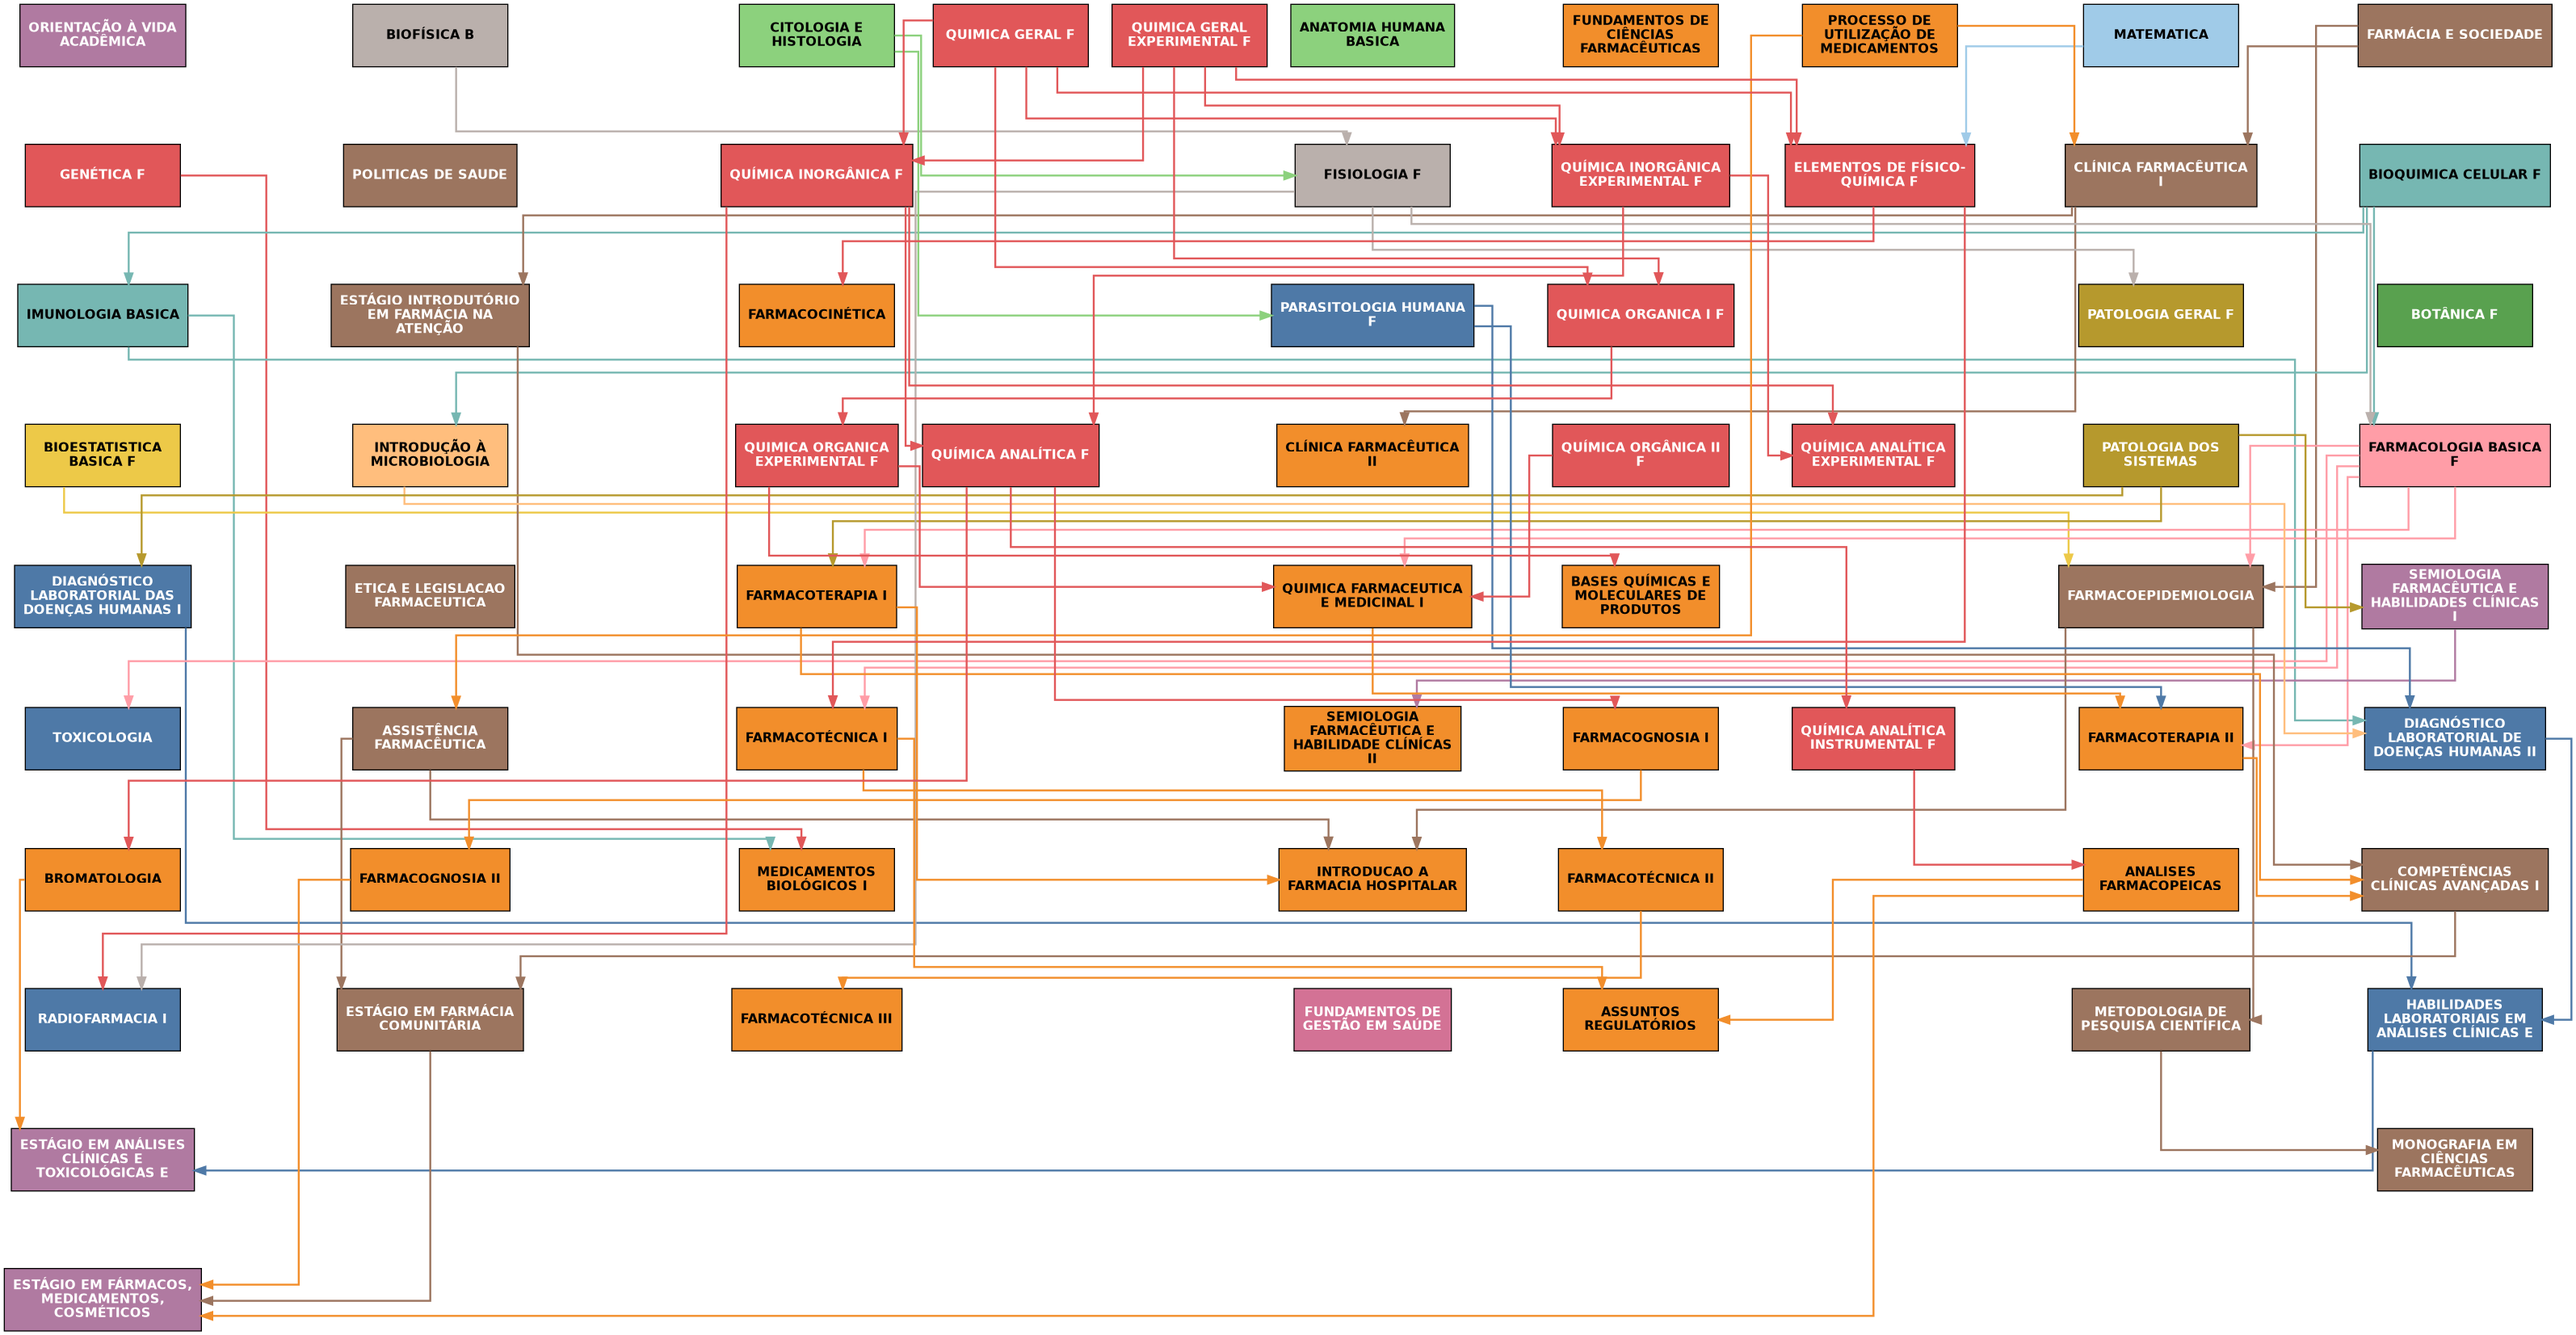
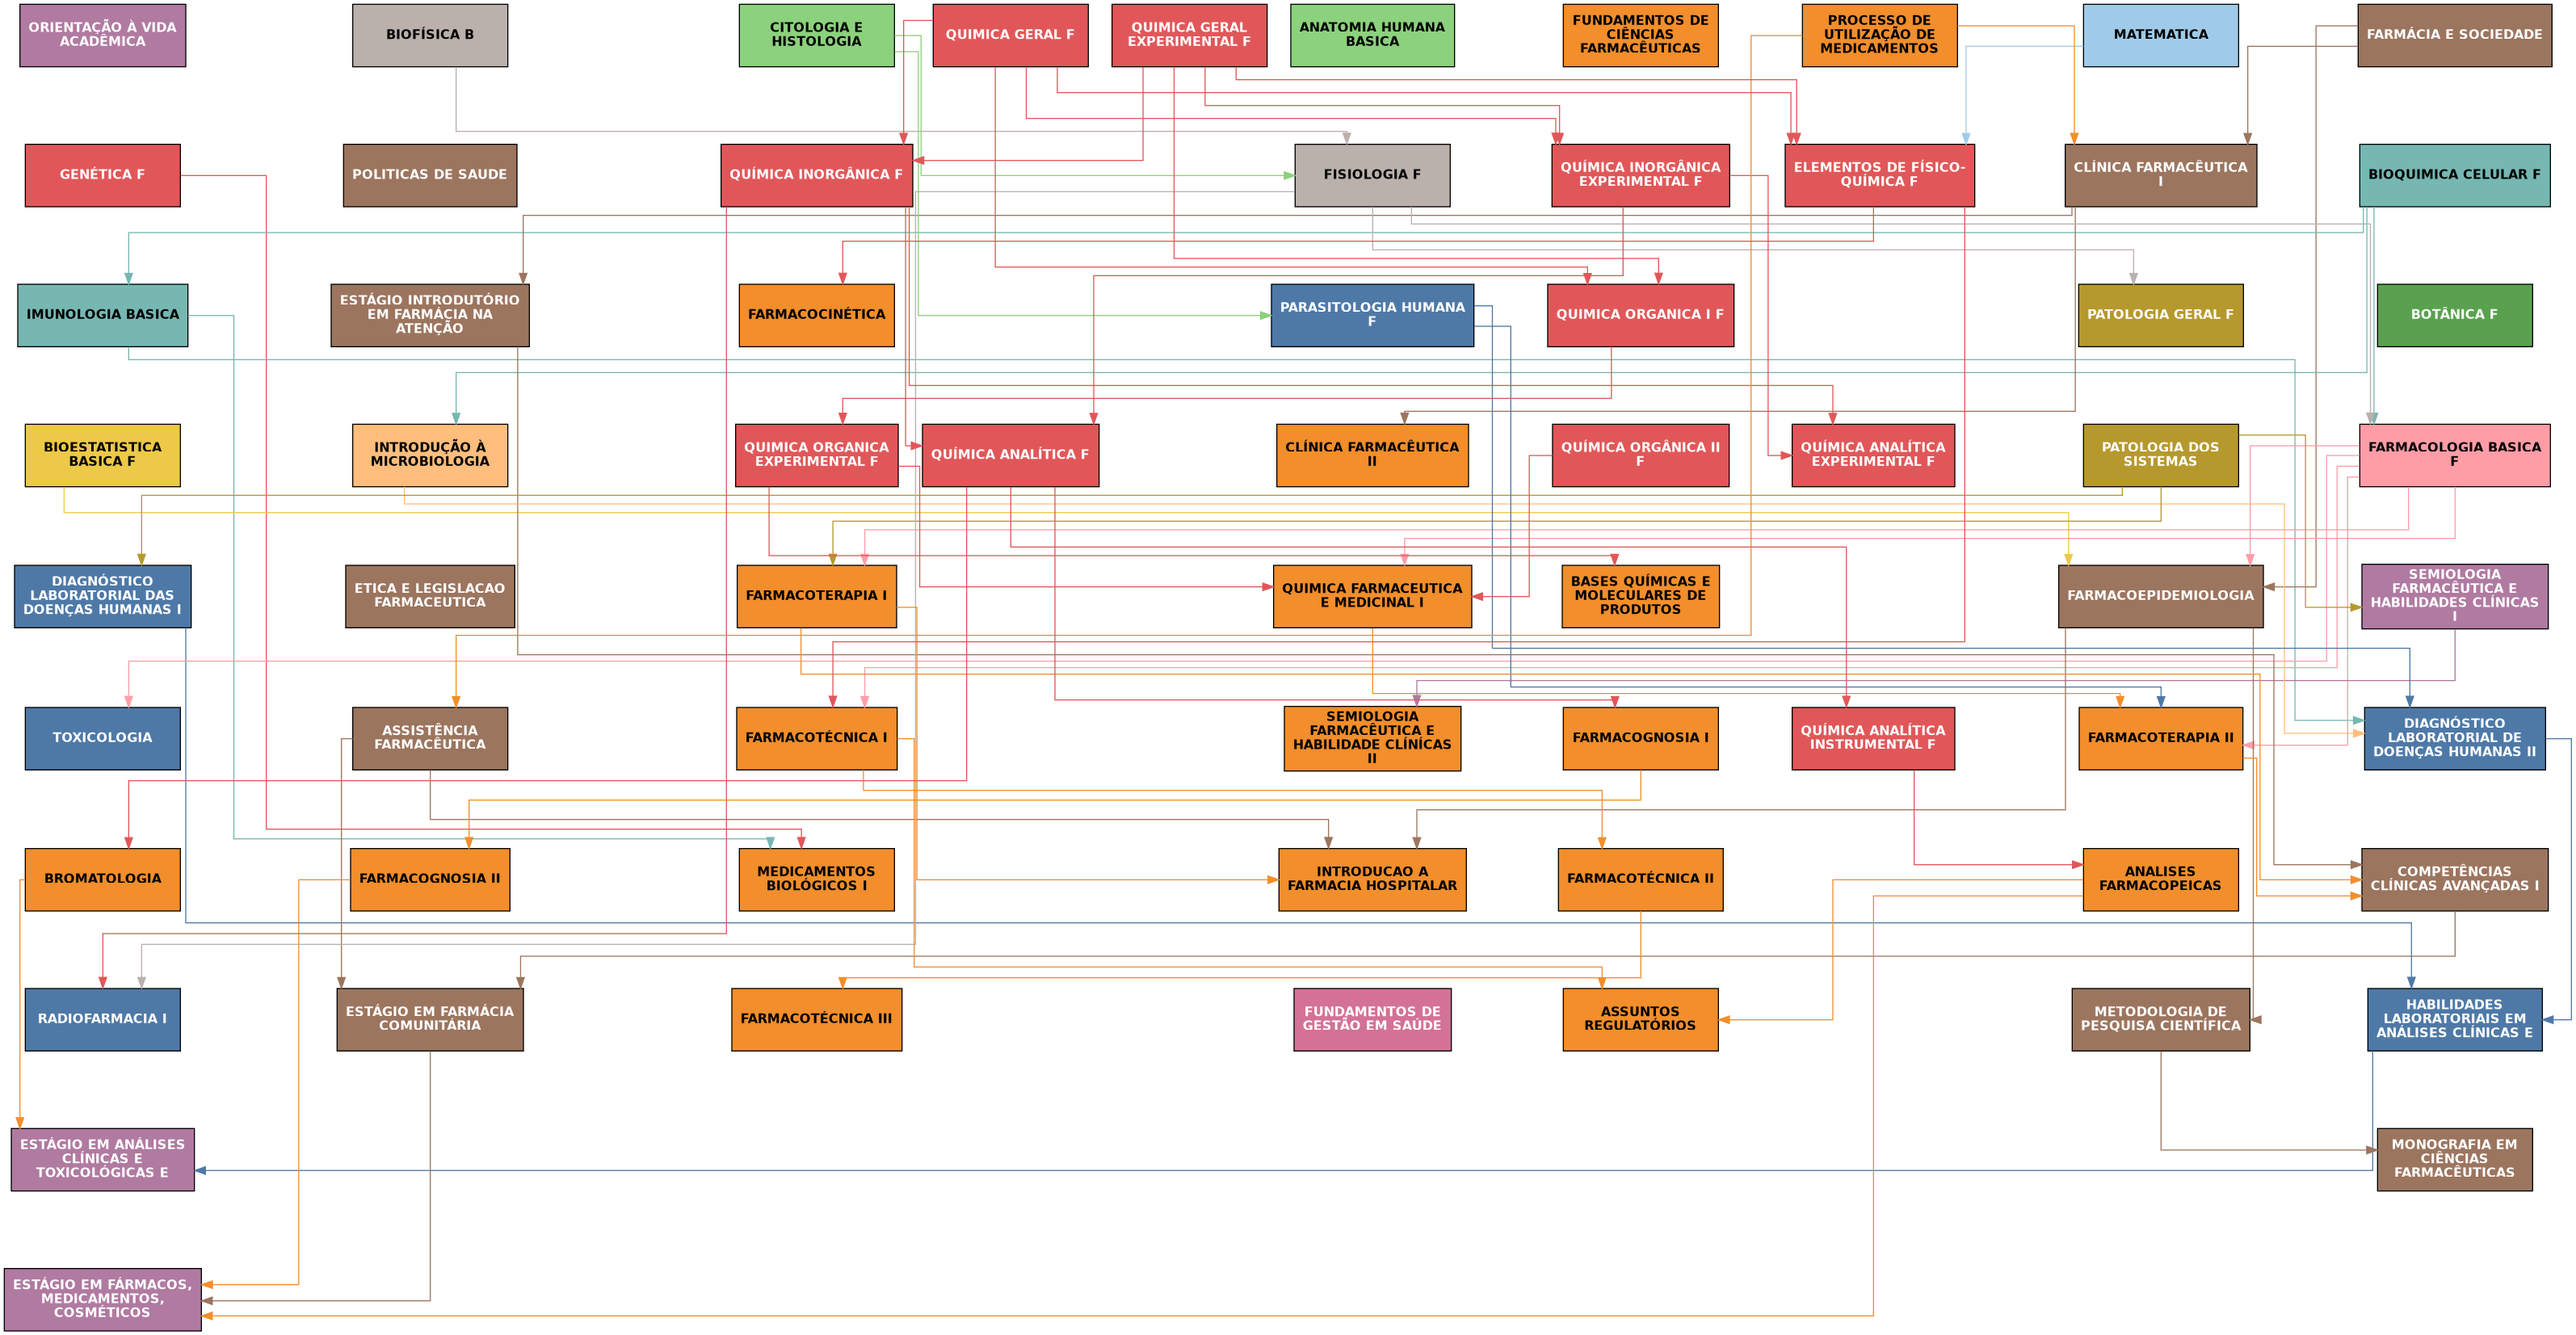
feat*: make lines smaller

diff --git a/src/classes/Visualizer.py b/src/classes/Visualizer.py
@@ -97,7 +97,7 @@ class Visualizer:
         if not re.match(r".*\-.*", activity):
           parsed_activity = activity.split(',')[0]
           edge_color = code_to_color.get(parsed_activity, '#555555')
-          dot.edge(parsed_activity, row['code'], penwidth='1.8', constraint='false', color=edge_color)
+          dot.edge(parsed_activity, row['code'], penwidth='1.0', constraint='false', color=edge_color)
 
     dot.render(
       "visualizacao",
